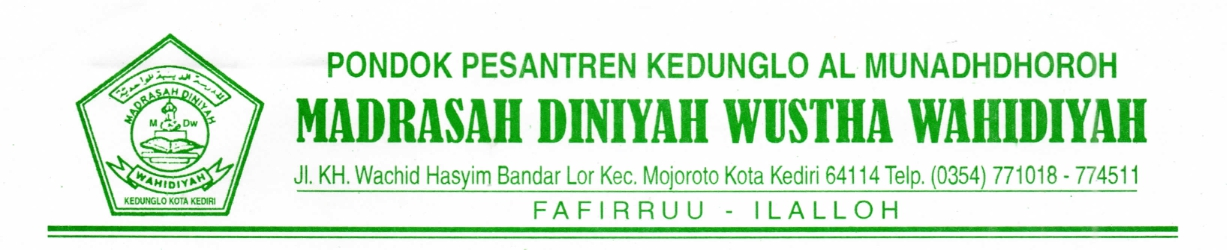
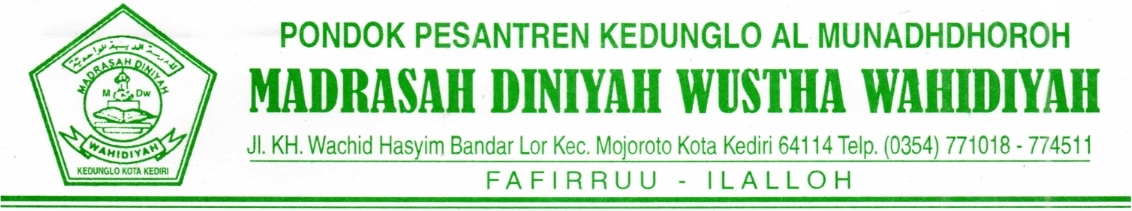
modifier

diff --git a/resources/views/admin/presensi/blangko.blade.php b/resources/views/admin/presensi/blangko.blade.php
@@ -52,7 +52,7 @@
         <div class="flex justify-center items-center w-1 bg-green-800">
         </div>
         <div id="div1" class=" w-full px-4 py-2">
-            <img src="images/04.jpg" alt="">
+            <img src="images/04.jpg" alt="" width="100%" class=" img-size-50">
             <div class=" grid justify-items-end"></div>
             <table class=" w-full">
                 <thead>
@@ -74,7 +74,7 @@
                     @if($kelas)
                     @foreach($kelasSantri as $kelassantri)
                     <tr class=" border border-green-800">
-                        <td class=" border border-green-800 px-1 text-center text-xs">
+                        <td class=" border border-green-800 px-1 py-1 text-center text-xs">
                             {{ $loop->iteration }}
                         </td>
                         <td class=" border border-green-800 px-2 text-xs">
